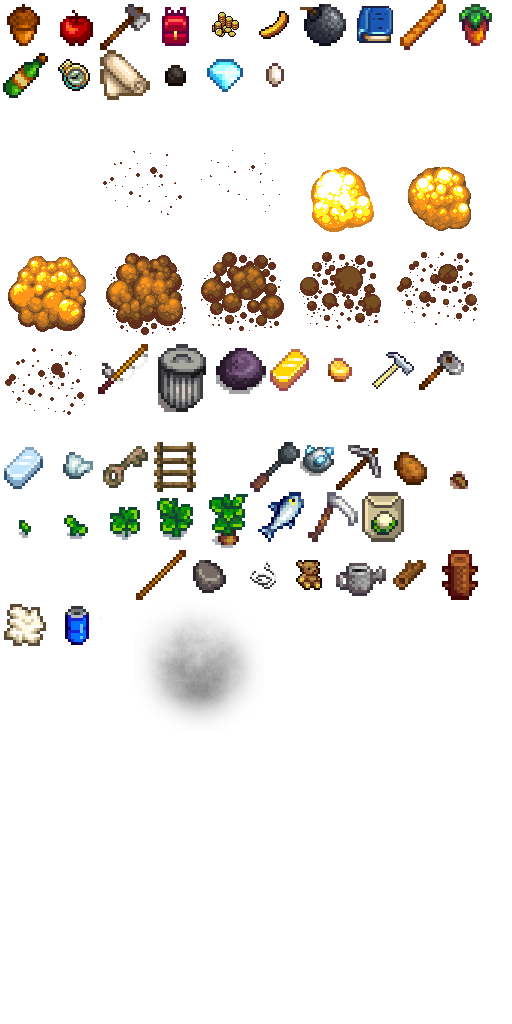
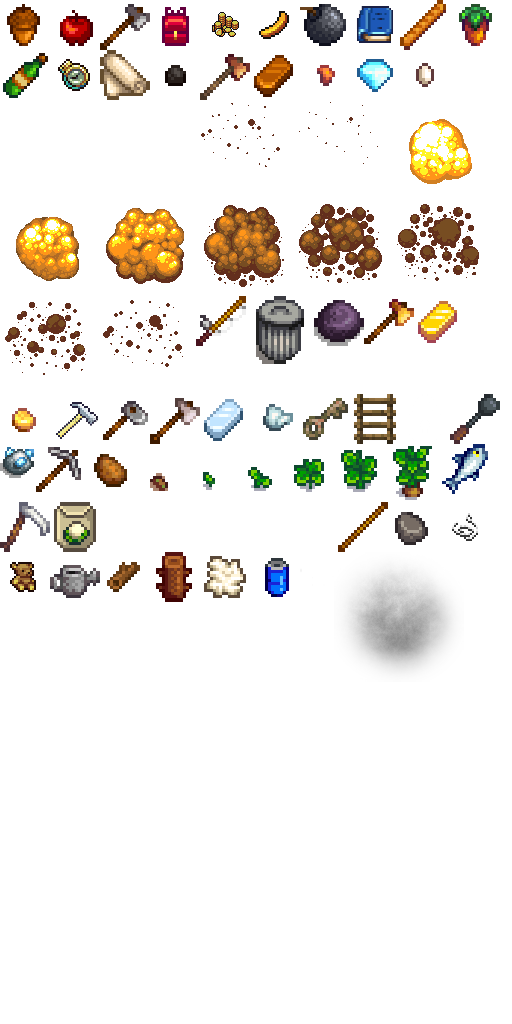
Added copper as resource and added all upgrade levels for axe.

diff --git a/core/src/com/binarybrains/sprout/item/resource/Resources.java b/core/src/com/binarybrains/sprout/item/resource/Resources.java
@@ -9,6 +9,9 @@ public class Resources {
     public static Resource stick = new Resource("Stick", "A stick made of wood");
     public static Resource stone = new Resource("Stone", "Hard, solid, nonmetallic mineral matter especially \ngood as building material.");
 
+    public static Resource copperOre = new Resource("Copper Ore", " Rock with a brassy color");
+    public static Resource copperBar = new Resource("Copper Bar", "Solid bar of of copper");
+
     public static Resource ironOre = new Resource("Iron Ore", "Rock from which iron can be profitably extracted.");
     public static Resource ironBar = new Resource("Iron Bar", "Strong, hard magnetic silvery-gray metal");
 

diff --git a/core/src/com/binarybrains/sprout/item/ToolItem.java b/core/src/com/binarybrains/sprout/item/ToolItem.java
@@ -11,9 +11,7 @@ public class ToolItem extends Item {
     public int level;
 
     public static final int MAX_LEVEL = 3;
-    public static final String[] LEVEL_NAMES = { //
-            "Basic", "Iron", "Gold"//
-    };
+    public static final String[] LEVEL_NAMES = {"Basic", "Copper", "Iron", "Gold"};
 
     public ToolItem(Tool tool, int level) {
         this.tool = tool;
@@ -28,6 +26,7 @@ public class ToolItem extends Item {
      * @return
      */
     public int getDamage() {
+        System.out.println(level);
         return MathUtils.random((level+1) * 5, (level+2) * 5);
     }
 

diff --git a/core/src/com/binarybrains/sprout/entity/Player.java b/core/src/com/binarybrains/sprout/entity/Player.java
@@ -78,7 +78,7 @@ public class Player extends Npc implements InputProcessor {
         getInventory().add(new ResourceItem(Resources.wool, 3));
 
         getInventory().add(new ArtifactItem(Artifacts.teddy));
-        getInventory().add(new ArtifactItem(Artifacts.backpack));
+        //getInventory().add(new ArtifactItem(Artifacts.backpack));
 
         getInventory().add(new ResourceItem(Resources.coal, 21));
         getInventory().add(new ResourceItem(Resources.stone, 12));

diff --git a/core/src/com/binarybrains/sprout/crafting/ToolRecipe.java b/core/src/com/binarybrains/sprout/crafting/ToolRecipe.java
@@ -17,6 +17,7 @@ public class ToolRecipe extends Recipe {
 
     @Override
     public void craft(Inventory inventory) {
+        // remove recently upgraded tool?
         inventory.add(new ToolItem(tool, level));
     }
 
